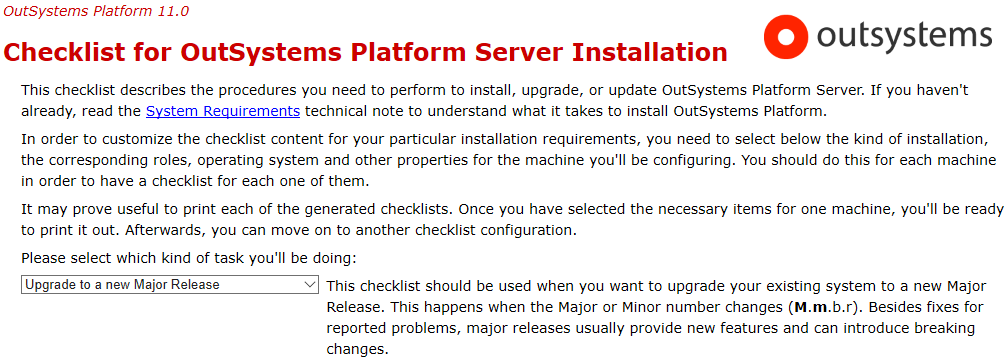
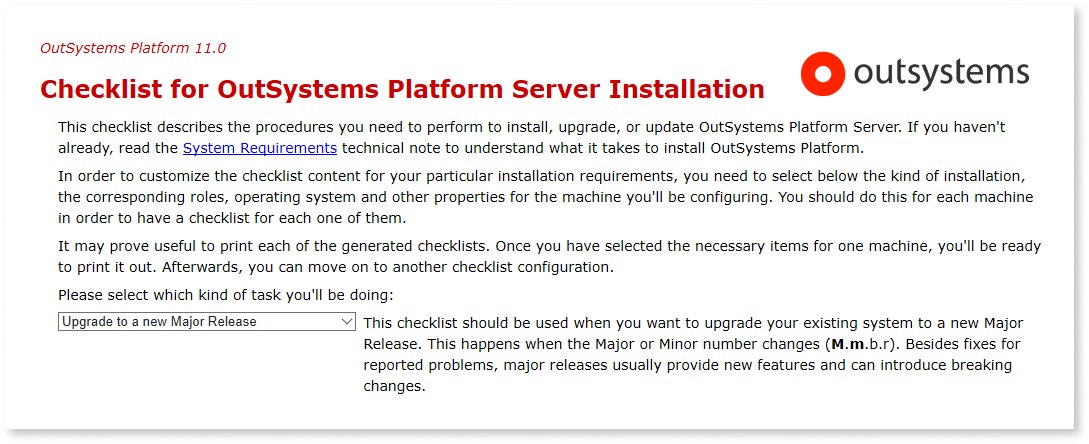
RDTKF-18442 Update diagrams to follow our brand guidelines (#1347)

Changed region(s): [[0.0, 0.0306, 1.0, 1.0], [0.0, 0.0, 0.1851, 0.0611]]

diff --git a/src/setup-infra-platform/upgrade/upgrade-platform.md b/src/setup-infra-platform/upgrade/upgrade-platform.md
@@ -82,13 +82,13 @@ In the following upgrade scenarios, you must **publish all your applications** a
 
 Make sure you involve your teams (you will need your development and test teams) and plan ahead to align the upgrade with your release cycle.
 
-![Icon indicating incorrect timing for an upgrade sprint overlapping with a development sprint](images/wrong.png "Incorrect Upgrade Timing") An upgrade sprint should never break a development sprint!
+An upgrade sprint should never break a development sprint!
 
-![Diagram showing flawed sprint planning where an upgrade sprint disrupts the flow of development sprints](images/sprint-planning-wrong.png "Flawed Sprint Planning with Upgrade")
+![Diagram showing flawed sprint planning where an upgrade sprint disrupts the flow of development sprints](images/sprint-planning-wrong-diag.png "Flawed Sprint Planning with Upgrade")
 
-![Icon indicating correct timing for an upgrade sprint between development sprints](images/correct.png "Correct Upgrade Timing") An upgrade should always happen between development sprints (if you have teams at a different speed, make the necessary adjustments).
+An upgrade should always happen between development sprints (if you have teams at a different speed, make the necessary adjustments).
 
-![Diagram showing proper sprint planning with an upgrade sprint scheduled between development sprints](images/sprint-planning-correct.png "Proper Sprint Planning with Upgrade")
+![Diagram showing proper sprint planning with an upgrade sprint scheduled between development sprints](images/sprint-planning-correct-diag.png "Proper Sprint Planning with Upgrade")
 
 Validate the best time to upgrade the Production environment and plan the remaining environment upgrades from there.
 
@@ -102,7 +102,7 @@ You always have the freedom to choose the order that's most convenient for you. 
 
 For pre-production, you should create a custom checklist containing all the requirements and steps to execute in production, following a [downtime](#downtime) or [zero-downtime](#zero-downtime) approach.
 
-![Flowchart illustrating the recommended order of upgrading environments following the staging lifecycle](images/infrastructure-staging-lifecycle.png "Infrastructure Staging Lifecycle")
+![Flowchart illustrating the recommended order of upgrading environments following the staging lifecycle](images/infra-staging-lifecycle-diag.png "Infrastructure Staging Lifecycle")
 
 #### Go live strategies { #go-live }
 
@@ -112,7 +112,7 @@ When upgrading the Platform Server you should consider that the environment is l
 
 A Downtime approach is the safest way to perform an upgrade and advised when there are no business requirements for zero-downtime. By stopping the Production environment and preventing end-users access, the Upgrade process consistency is guaranteed, and a rollback can happen with no data loss.
 
-![Illustration of the downtime upgrade process where the production environment is stopped during the upgrade](images/downtime-upgrade.png "Downtime Upgrade Process")
+![Illustration of the downtime upgrade process where the production environment is stopped during the upgrade](images/downtime-upgrade-diag.png "Downtime Upgrade Process")
 
 ##### Zero-downtime upgrade { #zero-downtime }
 
@@ -126,7 +126,7 @@ Choosing to do a Zero-Downtime Upgrade means that if you need to rollback, you w
 1. Upgrade the remaining Front-End servers.
 1. Finally, reconnect all servers to the Load Balancer.
 
-![Illustration of the zero-downtime upgrade process with multiple front-end servers being upgraded in phases](images/no-downtime-upgrade.png "Zero-Downtime Upgrade Process")
+![Illustration of the zero-downtime upgrade process with multiple front-end servers being upgraded in phases](images/no-downtime-upgrade-diag.png "Zero-Downtime Upgrade Process")
 
 ## Execution { #execution }
 
@@ -244,7 +244,6 @@ For **mobile apps**, upon a Platform Server version upgrade in your **Production
 <div class="warning" markdown="1">
 
 Starting from Platform Server 11.19.0, a new [Deploy All](upgrade-platform-module-deploy.md) feature is available.
-
 
 </div>
 
